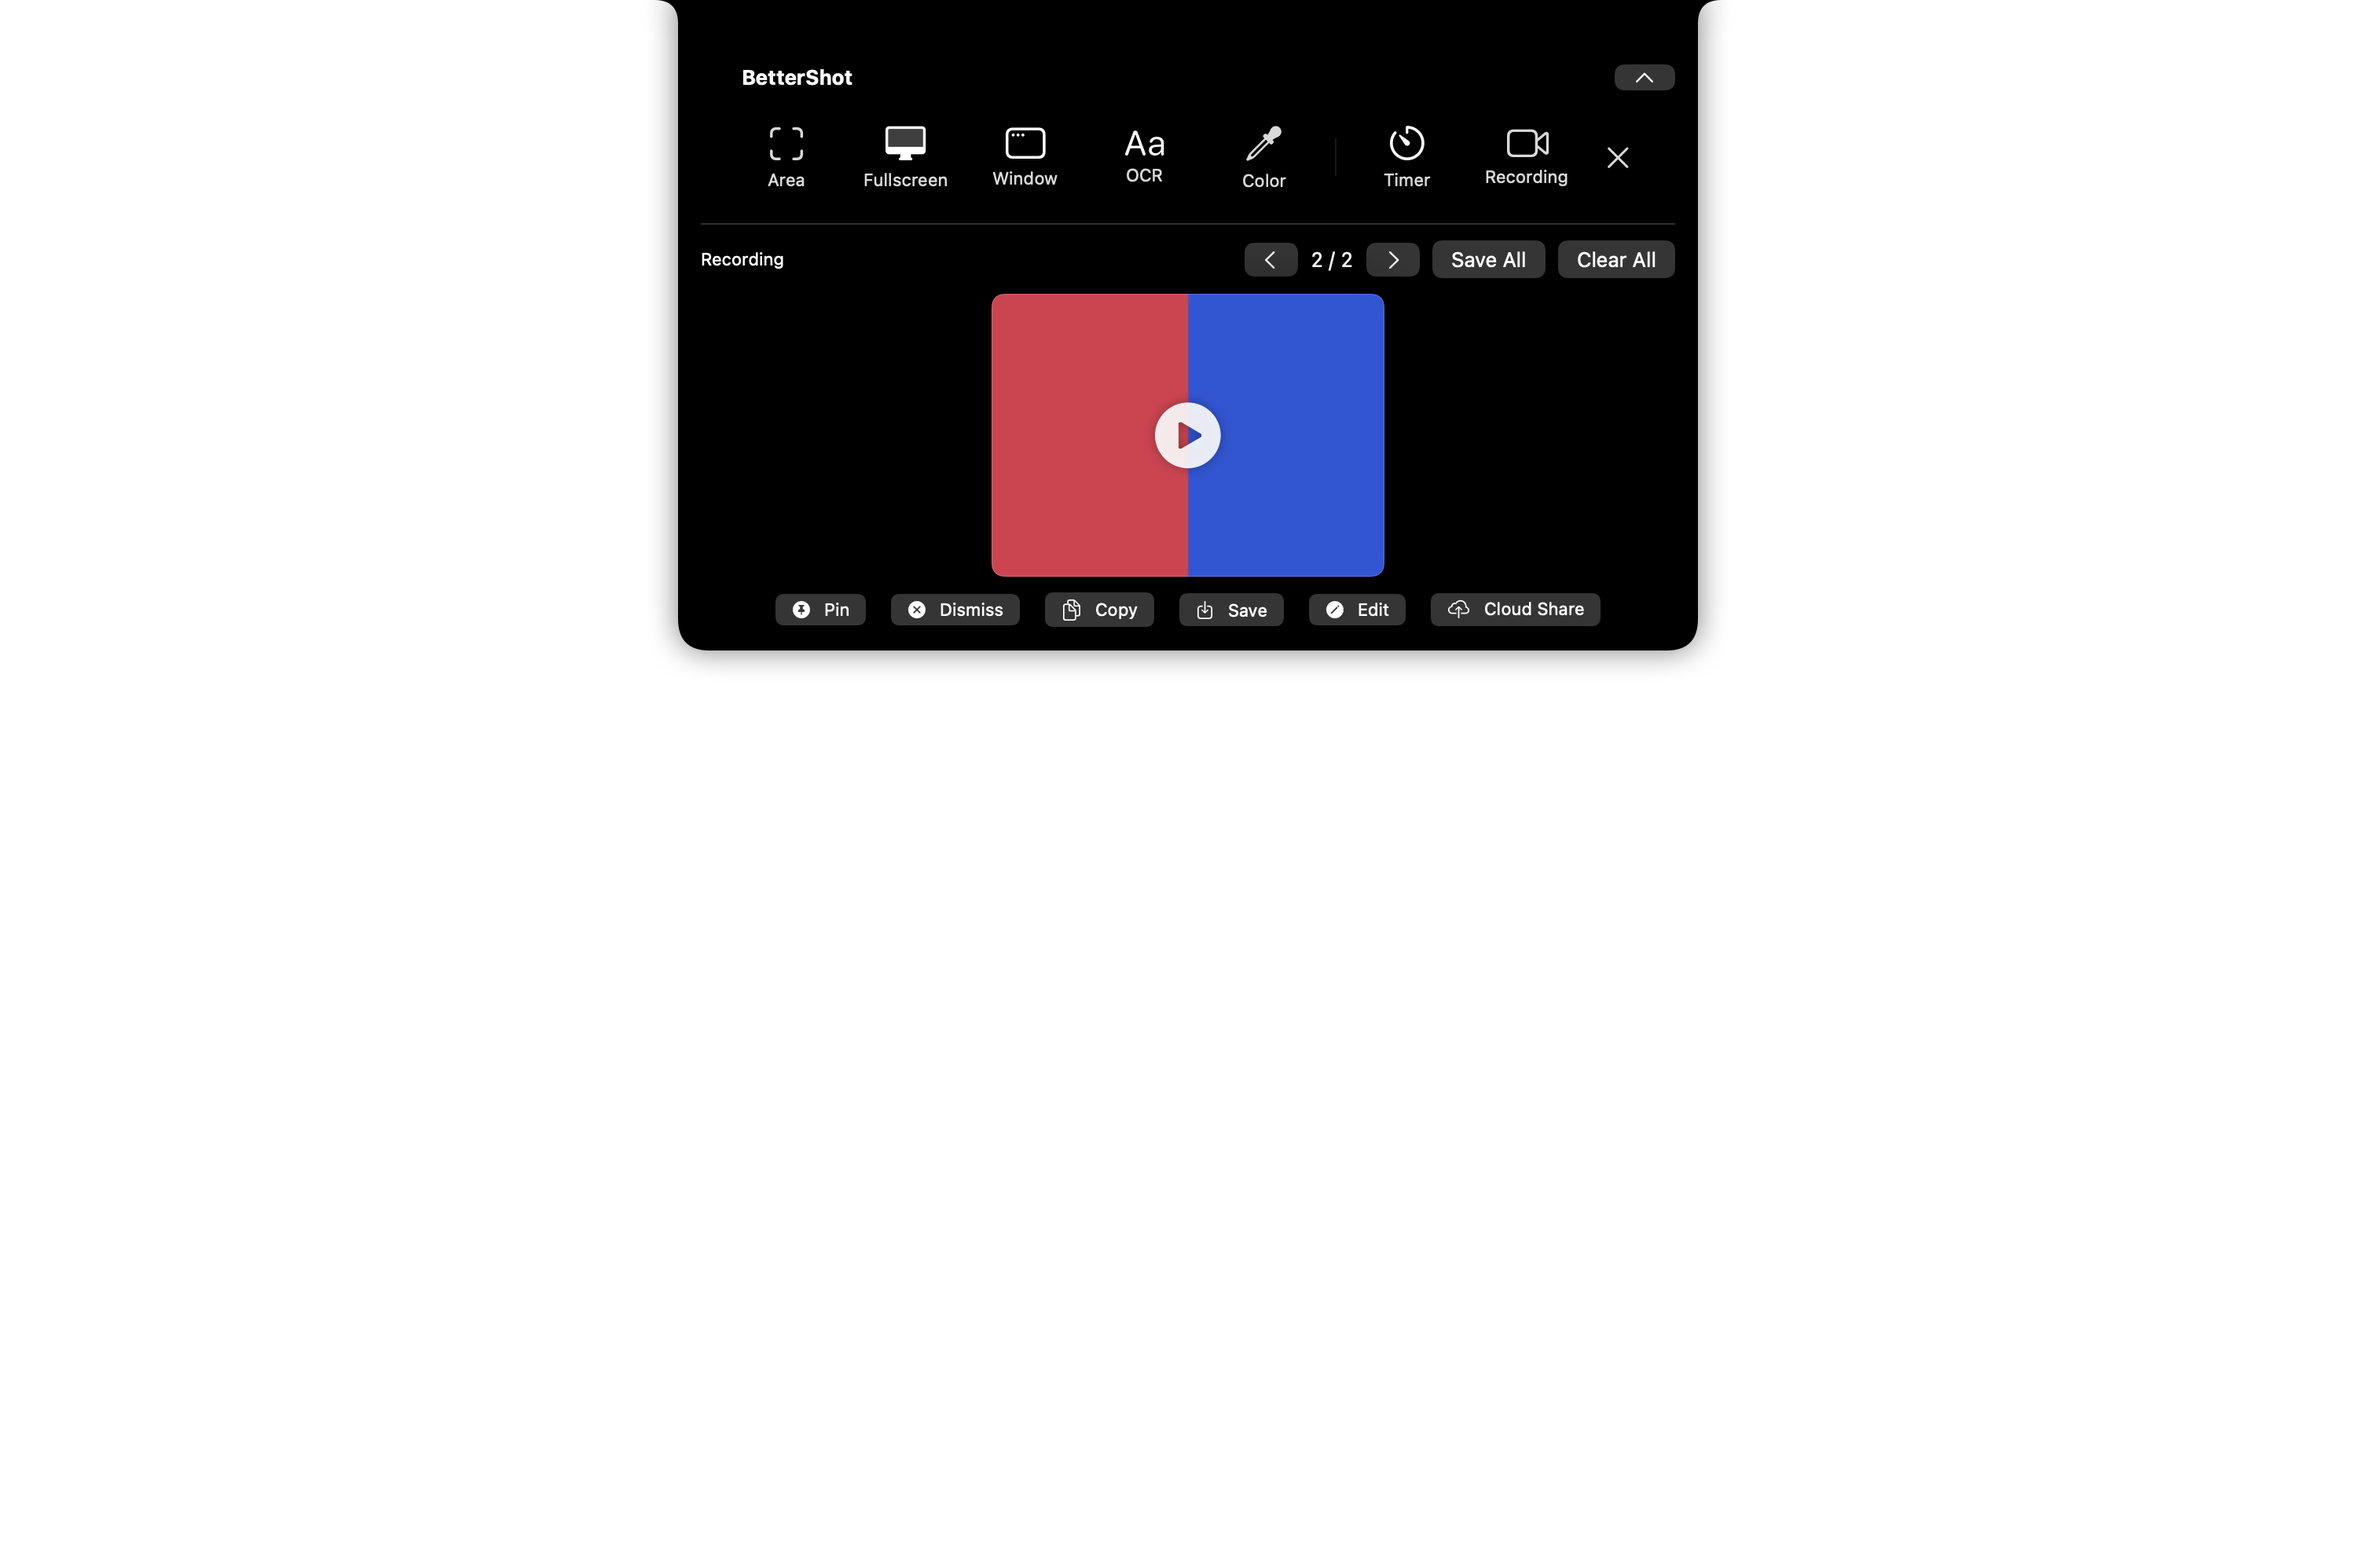
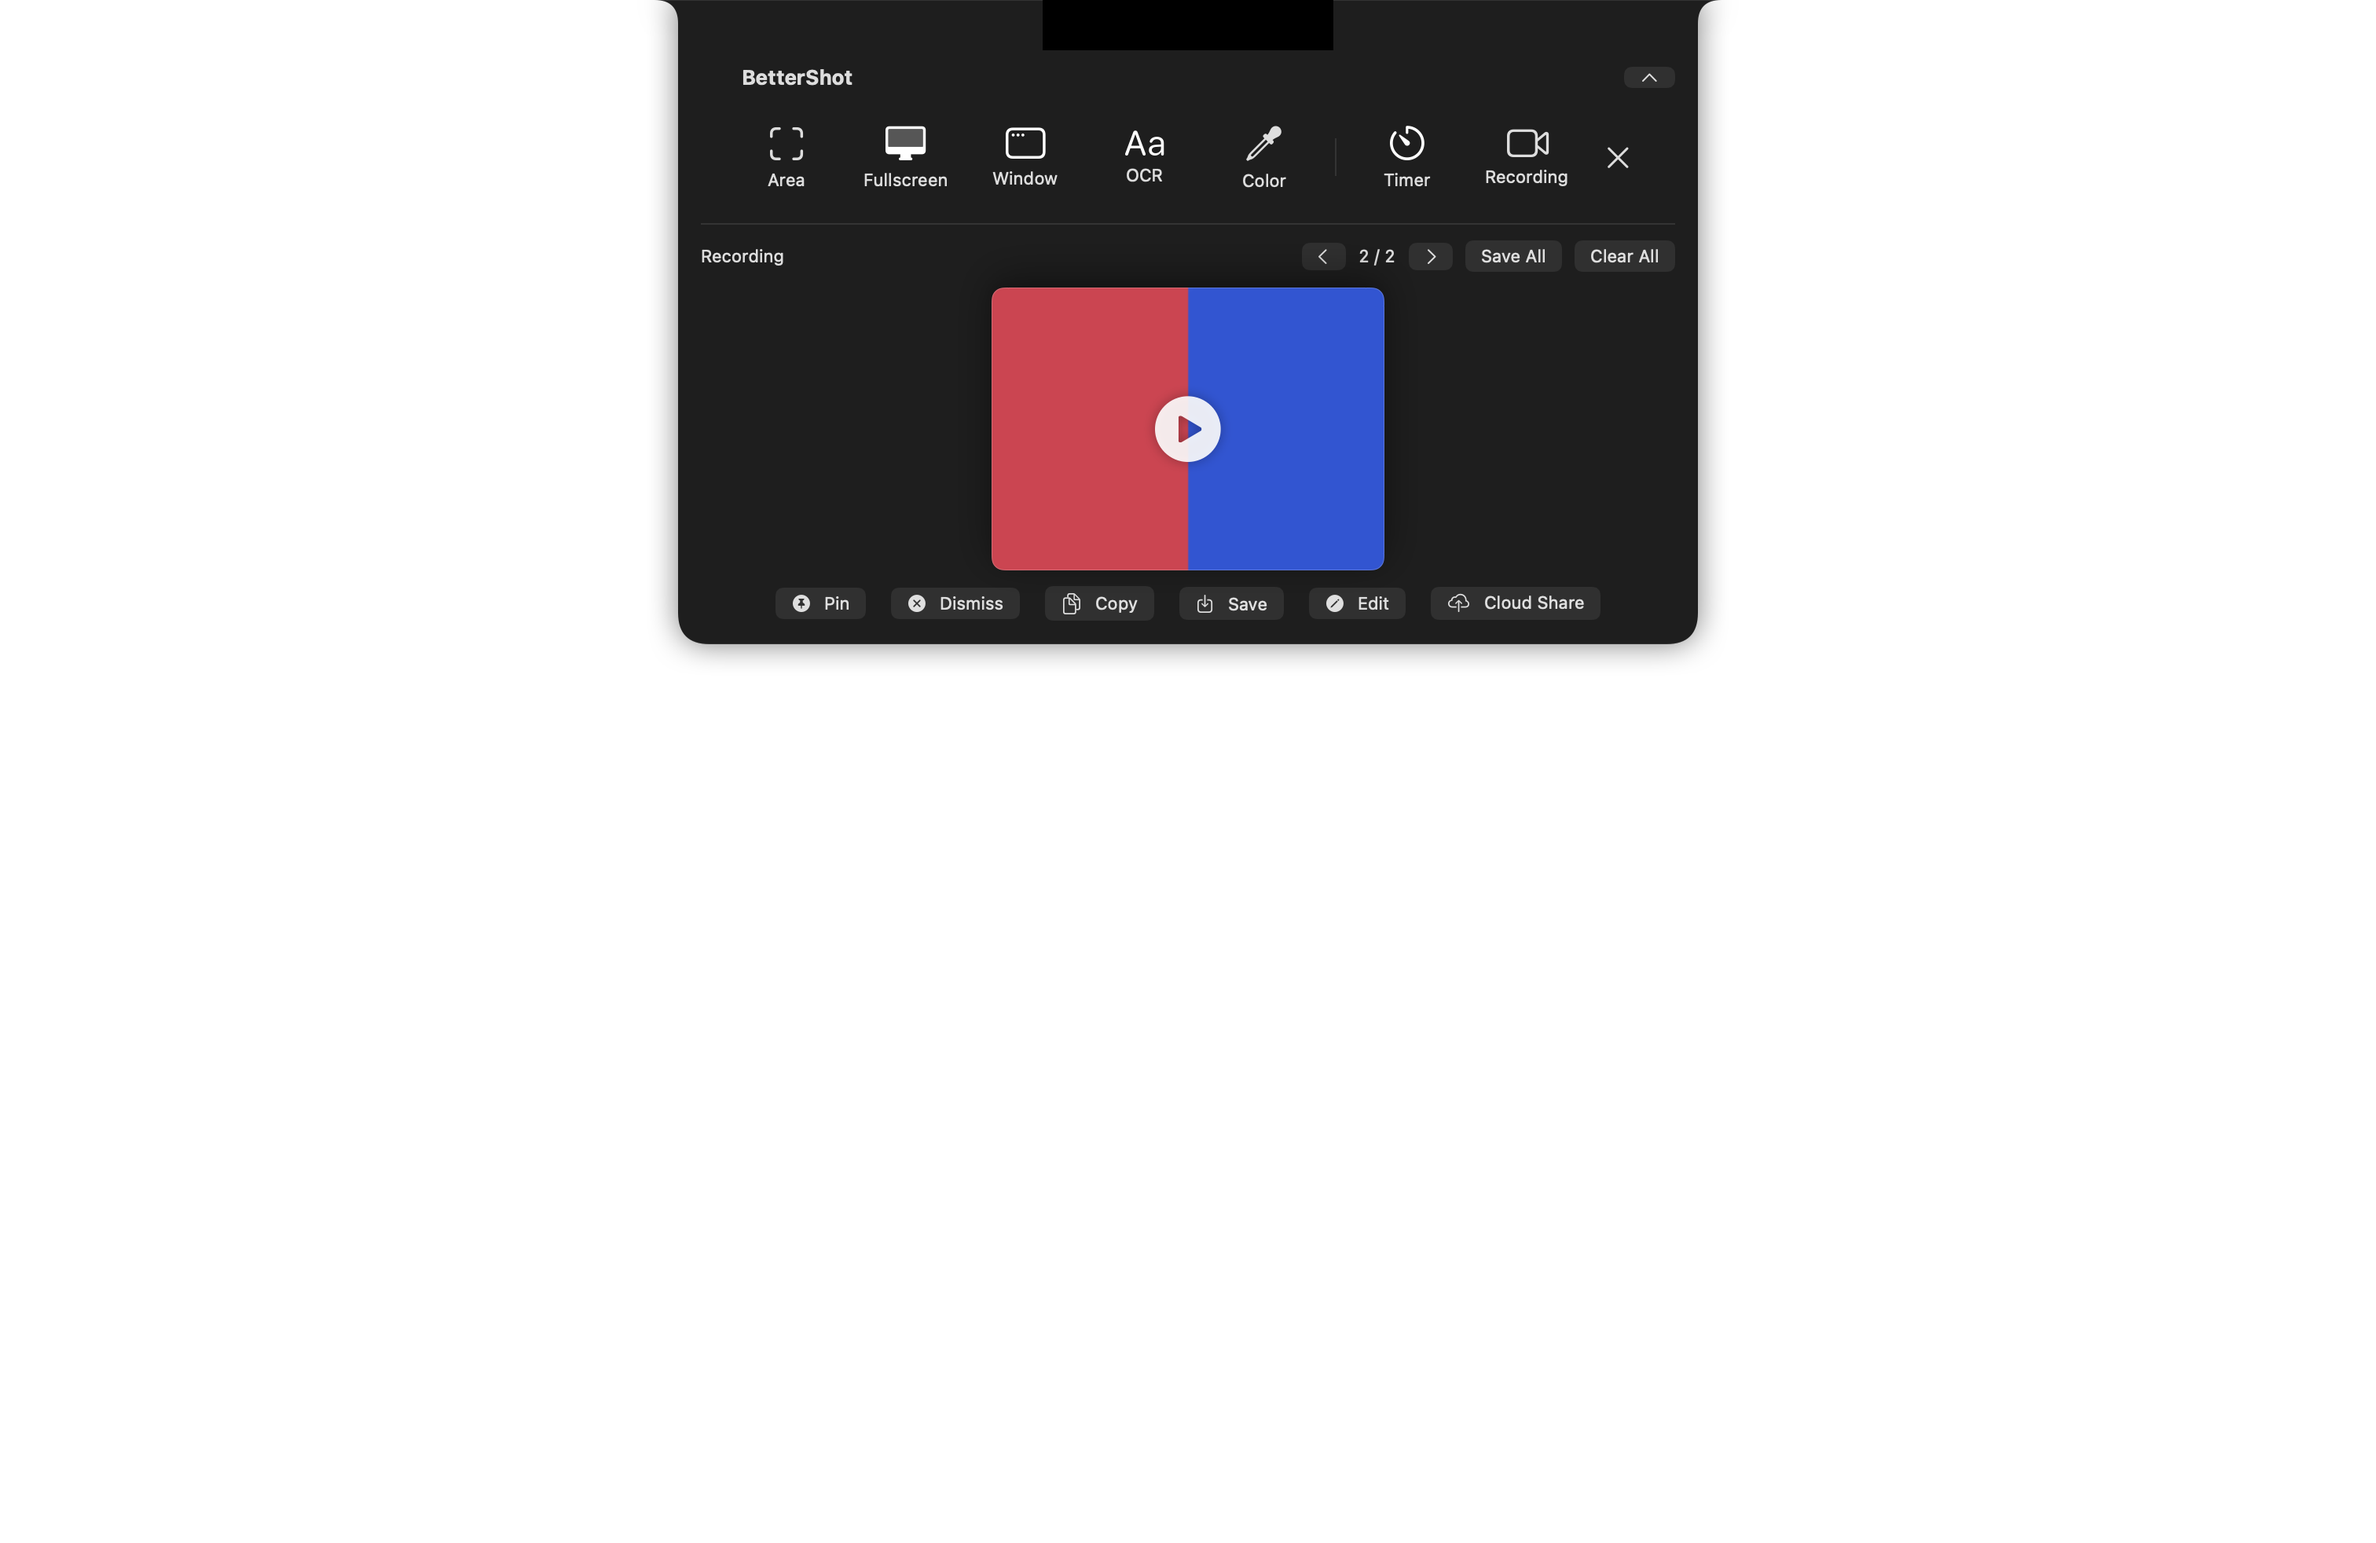
feat: use native macOS glass in the expanded notch

Changed region(s): [[0.2798, 0.0, 0.7149, 0.4348], [0.4974, 0.2485, 0.5284, 0.3106]]

diff --git a/Tests/NotchIntegration.swift b/Tests/NotchIntegration.swift
@@ -63,10 +63,28 @@ func checkNotchPresentation(imageURL: URL, movieURL: URL) async throws {
     if let hosting = window.contentView {
         hosting.layoutSubtreeIfNeeded()
         precondition(hosting.hitTest(CGPoint(x: 1, y: 1)) == nil, "Transparent margins must pass clicks through")
-        if let bitmap = hosting.bitmapImageRepForCachingDisplay(in: hosting.bounds) {
-            hosting.cacheDisplay(in: hosting.bounds, to: bitmap)
-            try bitmap.representation(using: .png, properties: [:])?.write(to: output.appendingPathComponent("notch-native-window.png"))
+        func hasNativeGlass(_ view: NSView) -> Bool {
+            if let effect = view as? NSVisualEffectView,
+               effect.material == .popover && effect.blendingMode == .behindWindow { return true }
+            return view.subviews.contains(where: hasNativeGlass)
         }
+        if !NSWorkspace.shared.accessibilityDisplayShouldReduceTransparency {
+            precondition(hasNativeGlass(hosting), "Expanded notch must use native behind-window glass")
+        }
+        let originalAppearance = window.appearance
+        for appearance in [NSAppearance.Name.aqua, .darkAqua] {
+            window.appearance = NSAppearance(named: appearance)
+            try await Task.sleep(for: .milliseconds(80))
+            hosting.layoutSubtreeIfNeeded()
+            if let bitmap = hosting.bitmapImageRepForCachingDisplay(in: hosting.bounds) {
+                hosting.cacheDisplay(in: hosting.bounds, to: bitmap)
+                try bitmap.representation(using: .png, properties: [:])?.write(to: output.appendingPathComponent("notch-native-\(appearance.rawValue).png"))
+                if appearance == .darkAqua {
+                    try bitmap.representation(using: .png, properties: [:])?.write(to: output.appendingPathComponent("notch-native-window.png"))
+                }
+            }
+        }
+        window.appearance = originalAppearance
     }
     notch.collapse()
     if window.screen?.safeAreaInsets.top ?? 0 > 0 {

diff --git a/Vendor/DynamicNotchKit/Sources/DynamicNotchKit/Views/NotchView.swift b/Vendor/DynamicNotchKit/Sources/DynamicNotchKit/Views/NotchView.swift
@@ -9,6 +9,7 @@ import SwiftUI
 
 struct NotchView<Expanded, CompactLeading, CompactTrailing>: View where Expanded: View, CompactLeading: View, CompactTrailing: View {
     @ObservedObject private var dynamicNotch: DynamicNotch<Expanded, CompactLeading, CompactTrailing>
+    @Environment(\.accessibilityReduceTransparency) private var reduceTransparency
     @State private var compactLeadingWidth: CGFloat = 0
     @State private var compactTrailingWidth: CGFloat = 0
     private let safeAreaInset: CGFloat = 15
@@ -56,9 +57,22 @@ struct NotchView<Expanded, CompactLeading, CompactTrailing>: View where Expanded
     var body: some View {
         notchContent()
             .background {
-                Rectangle()
-                    .foregroundStyle(.black)
-                    .padding(-50) // The opening/closing animation can overshoot, so this makes sure that it's still black
+                if dynamicNotch.state == .expanded {
+                    Group {
+                        if reduceTransparency { Color(nsColor: .windowBackgroundColor) }
+                        else { VisualEffectView(material: .popover, blendingMode: .behindWindow) }
+                    }
+                    .overlay {
+                        NotchShape(topCornerRadius: topCornerRadius, bottomCornerRadius: bottomCornerRadius)
+                            .stroke(Color(nsColor: .separatorColor), lineWidth: 1)
+                    }
+                    .overlay(alignment: .top) {
+                        // Keep the physical camera cutout black while the controls use native glass.
+                        Color.black.frame(width: dynamicNotch.notchSize.width, height: dynamicNotch.notchSize.height)
+                    }
+                } else {
+                    Color.black.padding(-50)
+                }
             }
             .mask {
                 NotchShape(

diff --git a/Sources/Notch/NotchPresenter.swift b/Sources/Notch/NotchPresenter.swift
@@ -64,7 +64,6 @@ final class NotchPresenter {
                 panel.isOpaque = false
                 panel.hidesOnDeactivate = false
                 panel.collectionBehavior = [.canJoinAllSpaces, .fullScreenAuxiliary, .stationary]
-                panel.appearance = (panel.screen?.safeAreaInsets.top ?? 0) > 0 ? NSAppearance(named: .darkAqua) : nil
                 PreviewWindowCaptureExclusion.shared.register(window: panel)
             }
             self.notch = notch
@@ -142,6 +141,8 @@ struct NotchContent: View {
             content
             ScrollView { content }.scrollIndicators(.hidden)
         }
+        .buttonStyle(.bordered)
+        .controlSize(.small)
         .frame(width: 620)
         .frame(maxHeight: max(240, (presenter.screen?.visibleFrame.height ?? 800) - 120))
         .fixedSize(horizontal: false, vertical: true)

diff --git a/Vendor/DynamicNotchKit/Sources/DynamicNotchKit/Views/NotchContentView.swift b/Vendor/DynamicNotchKit/Sources/DynamicNotchKit/Views/NotchContentView.swift
@@ -41,7 +41,7 @@ struct NotchContentView<Expanded, CompactLeading, CompactTrailing>: View where E
         ZStack {
             if style.isNotch {
                 NotchView(dynamicNotch: dynamicNotch)
-                    .foregroundStyle(.white)
+                    .foregroundStyle(dynamicNotch.state == .expanded ? Color.primary : Color.white)
             } else {
                 NotchlessView(dynamicNotch: dynamicNotch)
             }

diff --git a/CHANGELOG.md b/CHANGELOG.md
@@ -12,6 +12,10 @@ and this project adheres to [Semantic Versioning](https://semver.org/spec/v2.0.0
 - **Optional Notch Mode:** choose Normal Mode or Notch Mode in Settings > General > Capture Mode. Normal remains the default, including on upgrade. DynamicNotchKit hosts the shared screenshot tools (Area, Fullscreen, Window, OCR, Color, and timers), recording options and Stop/Pause/Restart/Discard controls, and image/video previews with Copy, Save, Edit, Pin, Cloud Share, and Dismiss. Browse pending captures without opening a separate overlay. Hardware notches can collapse to a compact capture/recording status; other displays use a top-center floating panel.
 - Notch mode also hosts countdowns, recording teleprompter text, saved/copied feedback, and export/share progress with existing recovery actions. Pending previews stay available until acted on. Switching modes preserves captures and recording state; the notch hides during selection/capture and follows capture-window exclusion settings.
 
+### Changed
+
+- Expanded Notch Mode uses native macOS frosted glass, system-colored controls, and light/dark appearance. The compact notch stays black, and Reduce Transparency uses an opaque surface.
+
 ### Fixed
 
 - Fix an editor redraw loop in notch transfer-status routing that could consume a CPU core and make video playback controls and scrubbing lag, even with no transfer in progress. Repeated idle/unchanged status updates no longer publish changes; real progress and current Cancel/Retry actions remain available.

diff --git a/CONTRIBUTING.md b/CONTRIBUTING.md
@@ -460,6 +460,8 @@ must preserve pending media, transfers, and active recording state.
 DynamicNotchKit is vendored at the revision in `Vendor/DynamicNotchKit/BETTERSHOT.md`
 with its MIT notice. Preserve the pre-presentation capture-exclusion hook,
 synchronous lifecycle, transparent-margin hit testing, display selection, and
-accessibility patches when updating it. `make test` exercises mode switching,
+accessibility patches when updating it. Expanded surfaces use the kit’s native
+`NSVisualEffectView` popover material with an opaque Reduce Transparency fallback;
+keep the compact notch black and expanded controls in system colors. `make test` exercises mode switching,
 capture suspension, preview actions, transfer cleanup, and both appearances;
 live recording, selectors, and multi-display hardware still need manual checks.

diff --git a/Vendor/DynamicNotchKit/BETTERSHOT.md b/Vendor/DynamicNotchKit/BETTERSHOT.md
@@ -8,5 +8,7 @@ Local integration patches provide synchronous presentation/dismissal and a windo
 configuration hook so capture exclusion is applied before showing the panel.
 Screen changes preserve the chosen display. Hosting disables automatic window
 sizing and passes clicks through transparent margins. Presentation is immediate;
-no new motion or blur transitions are used. Floating surfaces respect Reduce
-Transparency. The documentation-only plugin and media are omitted.
+no new motion or blur transitions are used. Expanded notch and floating surfaces
+use AppKit’s native popover material and respect Reduce Transparency. Expanded notch controls follow the app’s light/dark
+appearance; the compact notch and physical camera cutout remain black. The
+documentation-only plugin and media are omitted.

diff --git a/README.md b/README.md
@@ -240,6 +240,8 @@ image/video previews, and transfer status at the top of the capture display.
 Use the preview actions to Copy, Save, Edit, Pin, Cloud Share, or Dismiss; arrow
 buttons browse pending captures. New Capture opens the shared capture tools.
 The image and video editors still open in their full editing windows.
+The expanded notch uses native macOS frosted glass and follows light/dark
+appearance, with an opaque background when Reduce Transparency is enabled.
 
 On a notched display, Collapse hides the expanded controls; hover or click either
 side to reopen them. Other displays use a floating panel at the top. Pending
